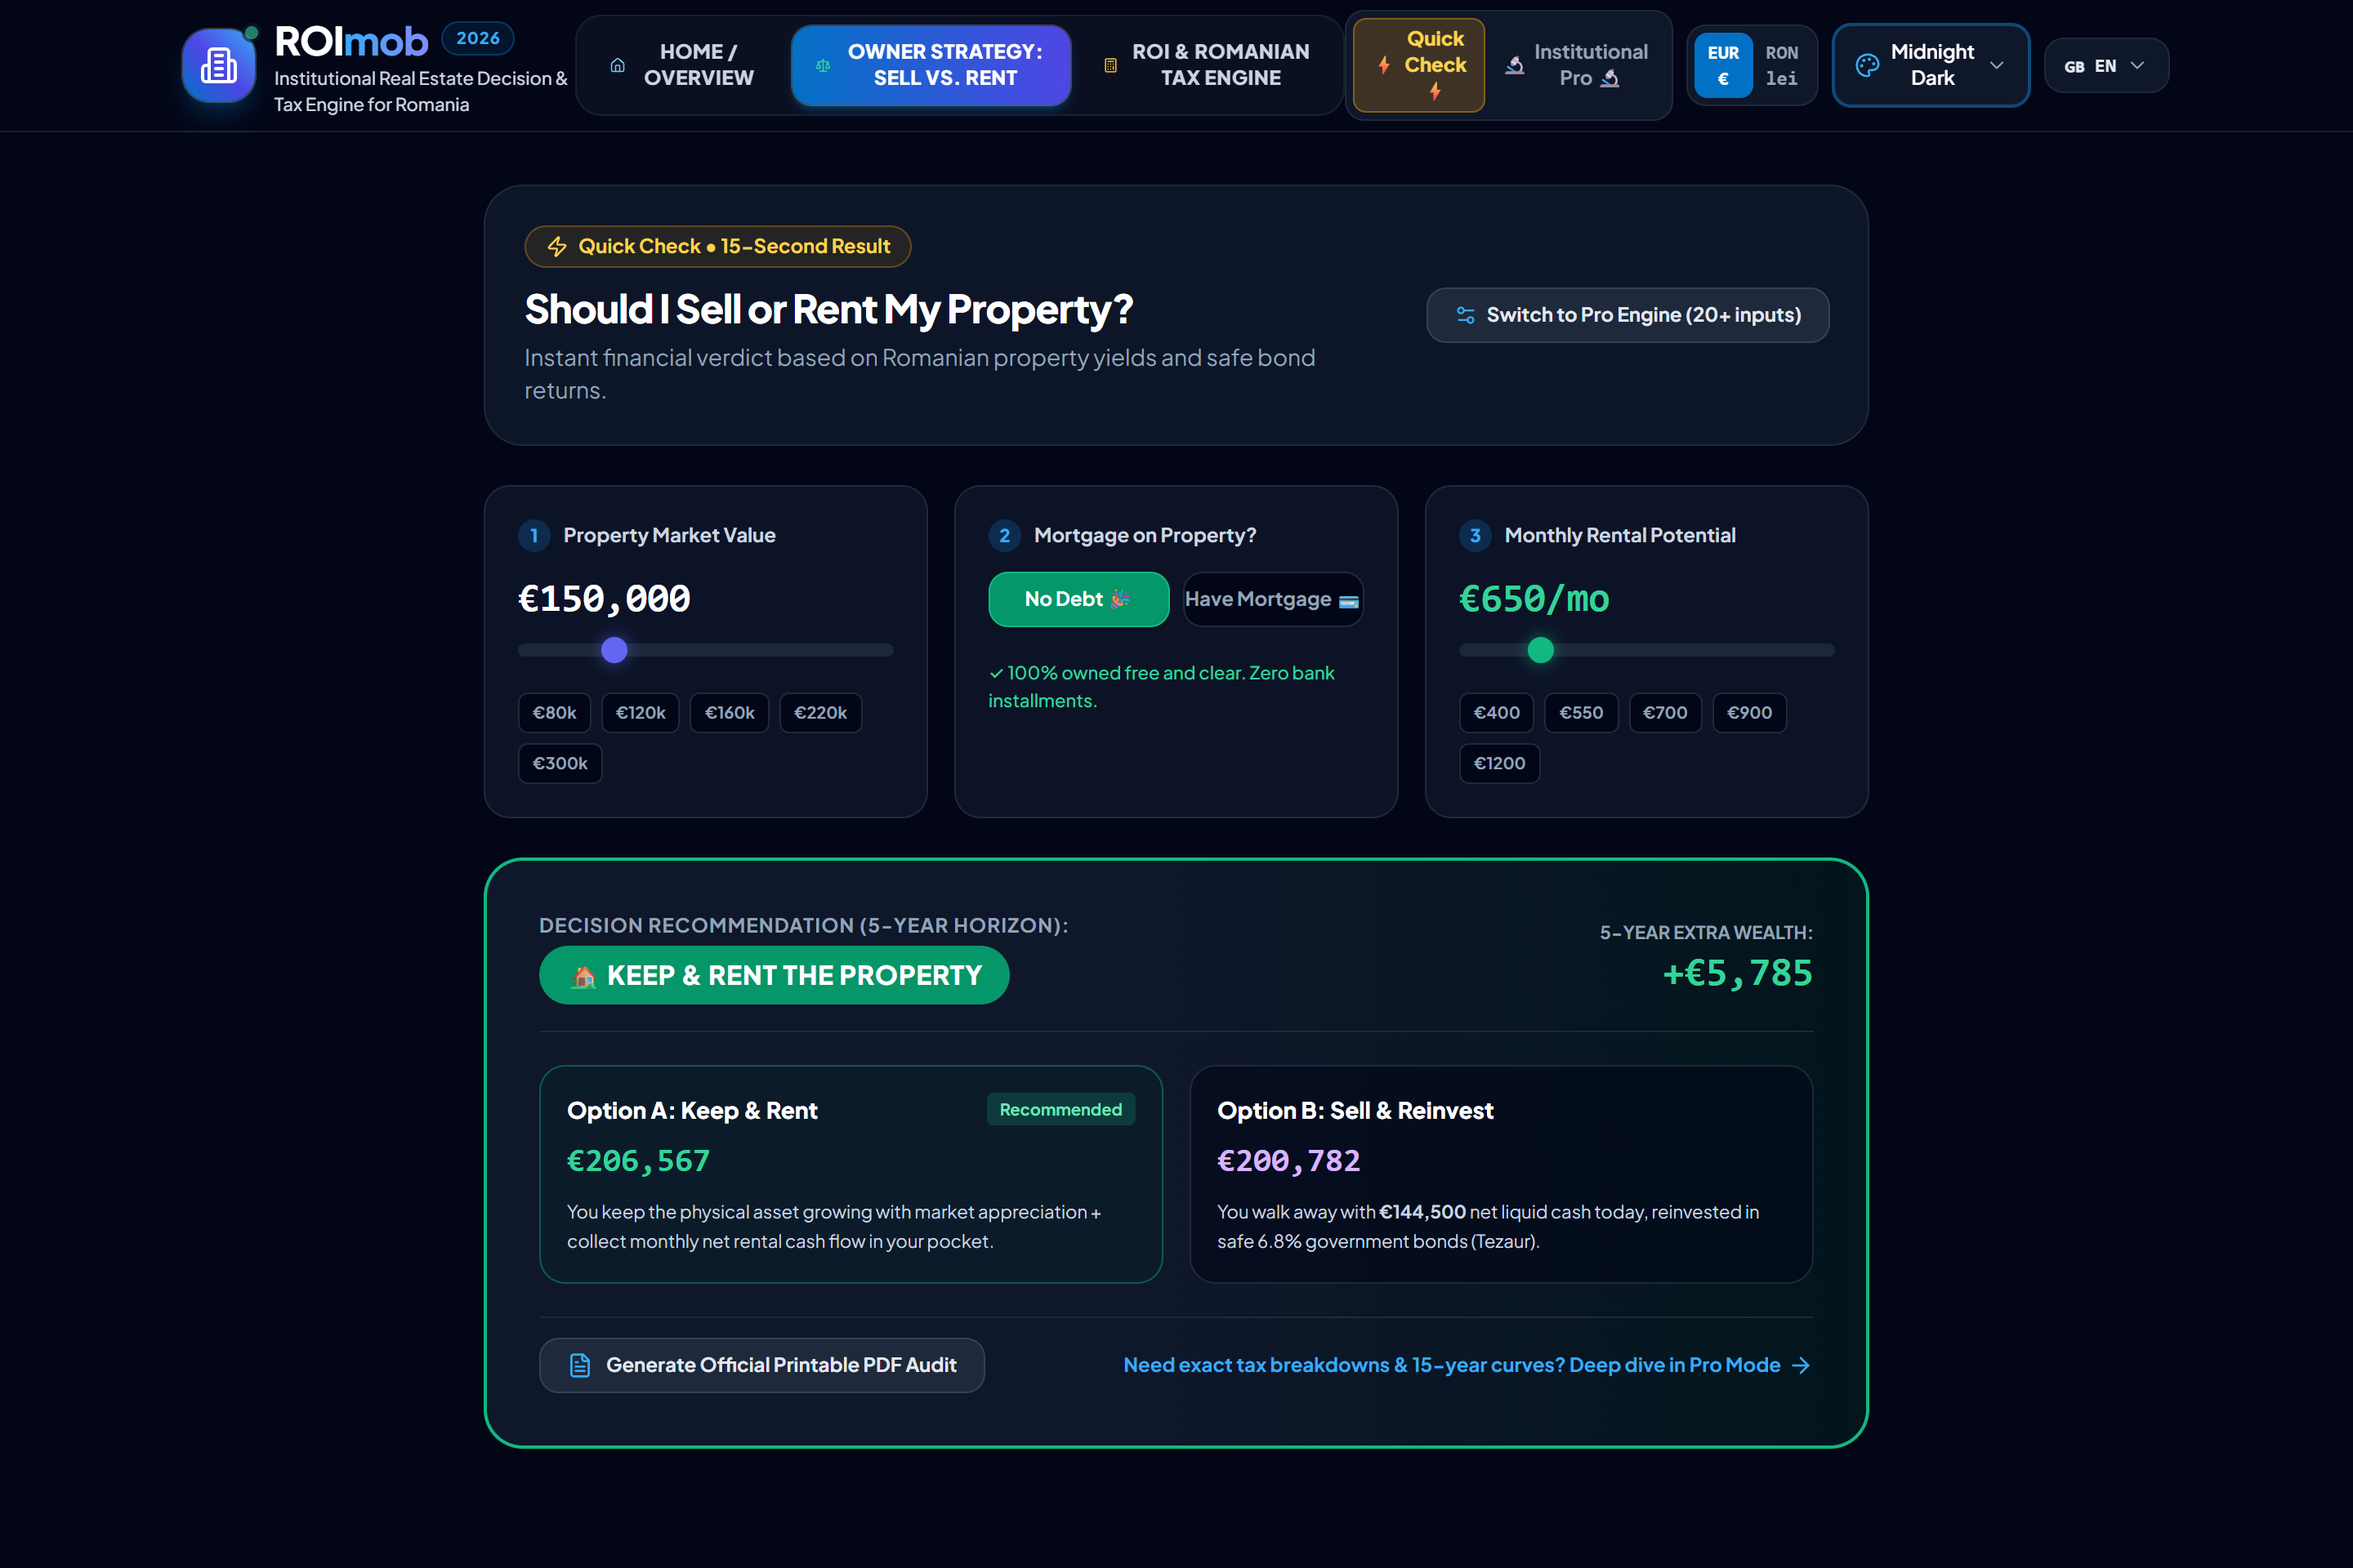
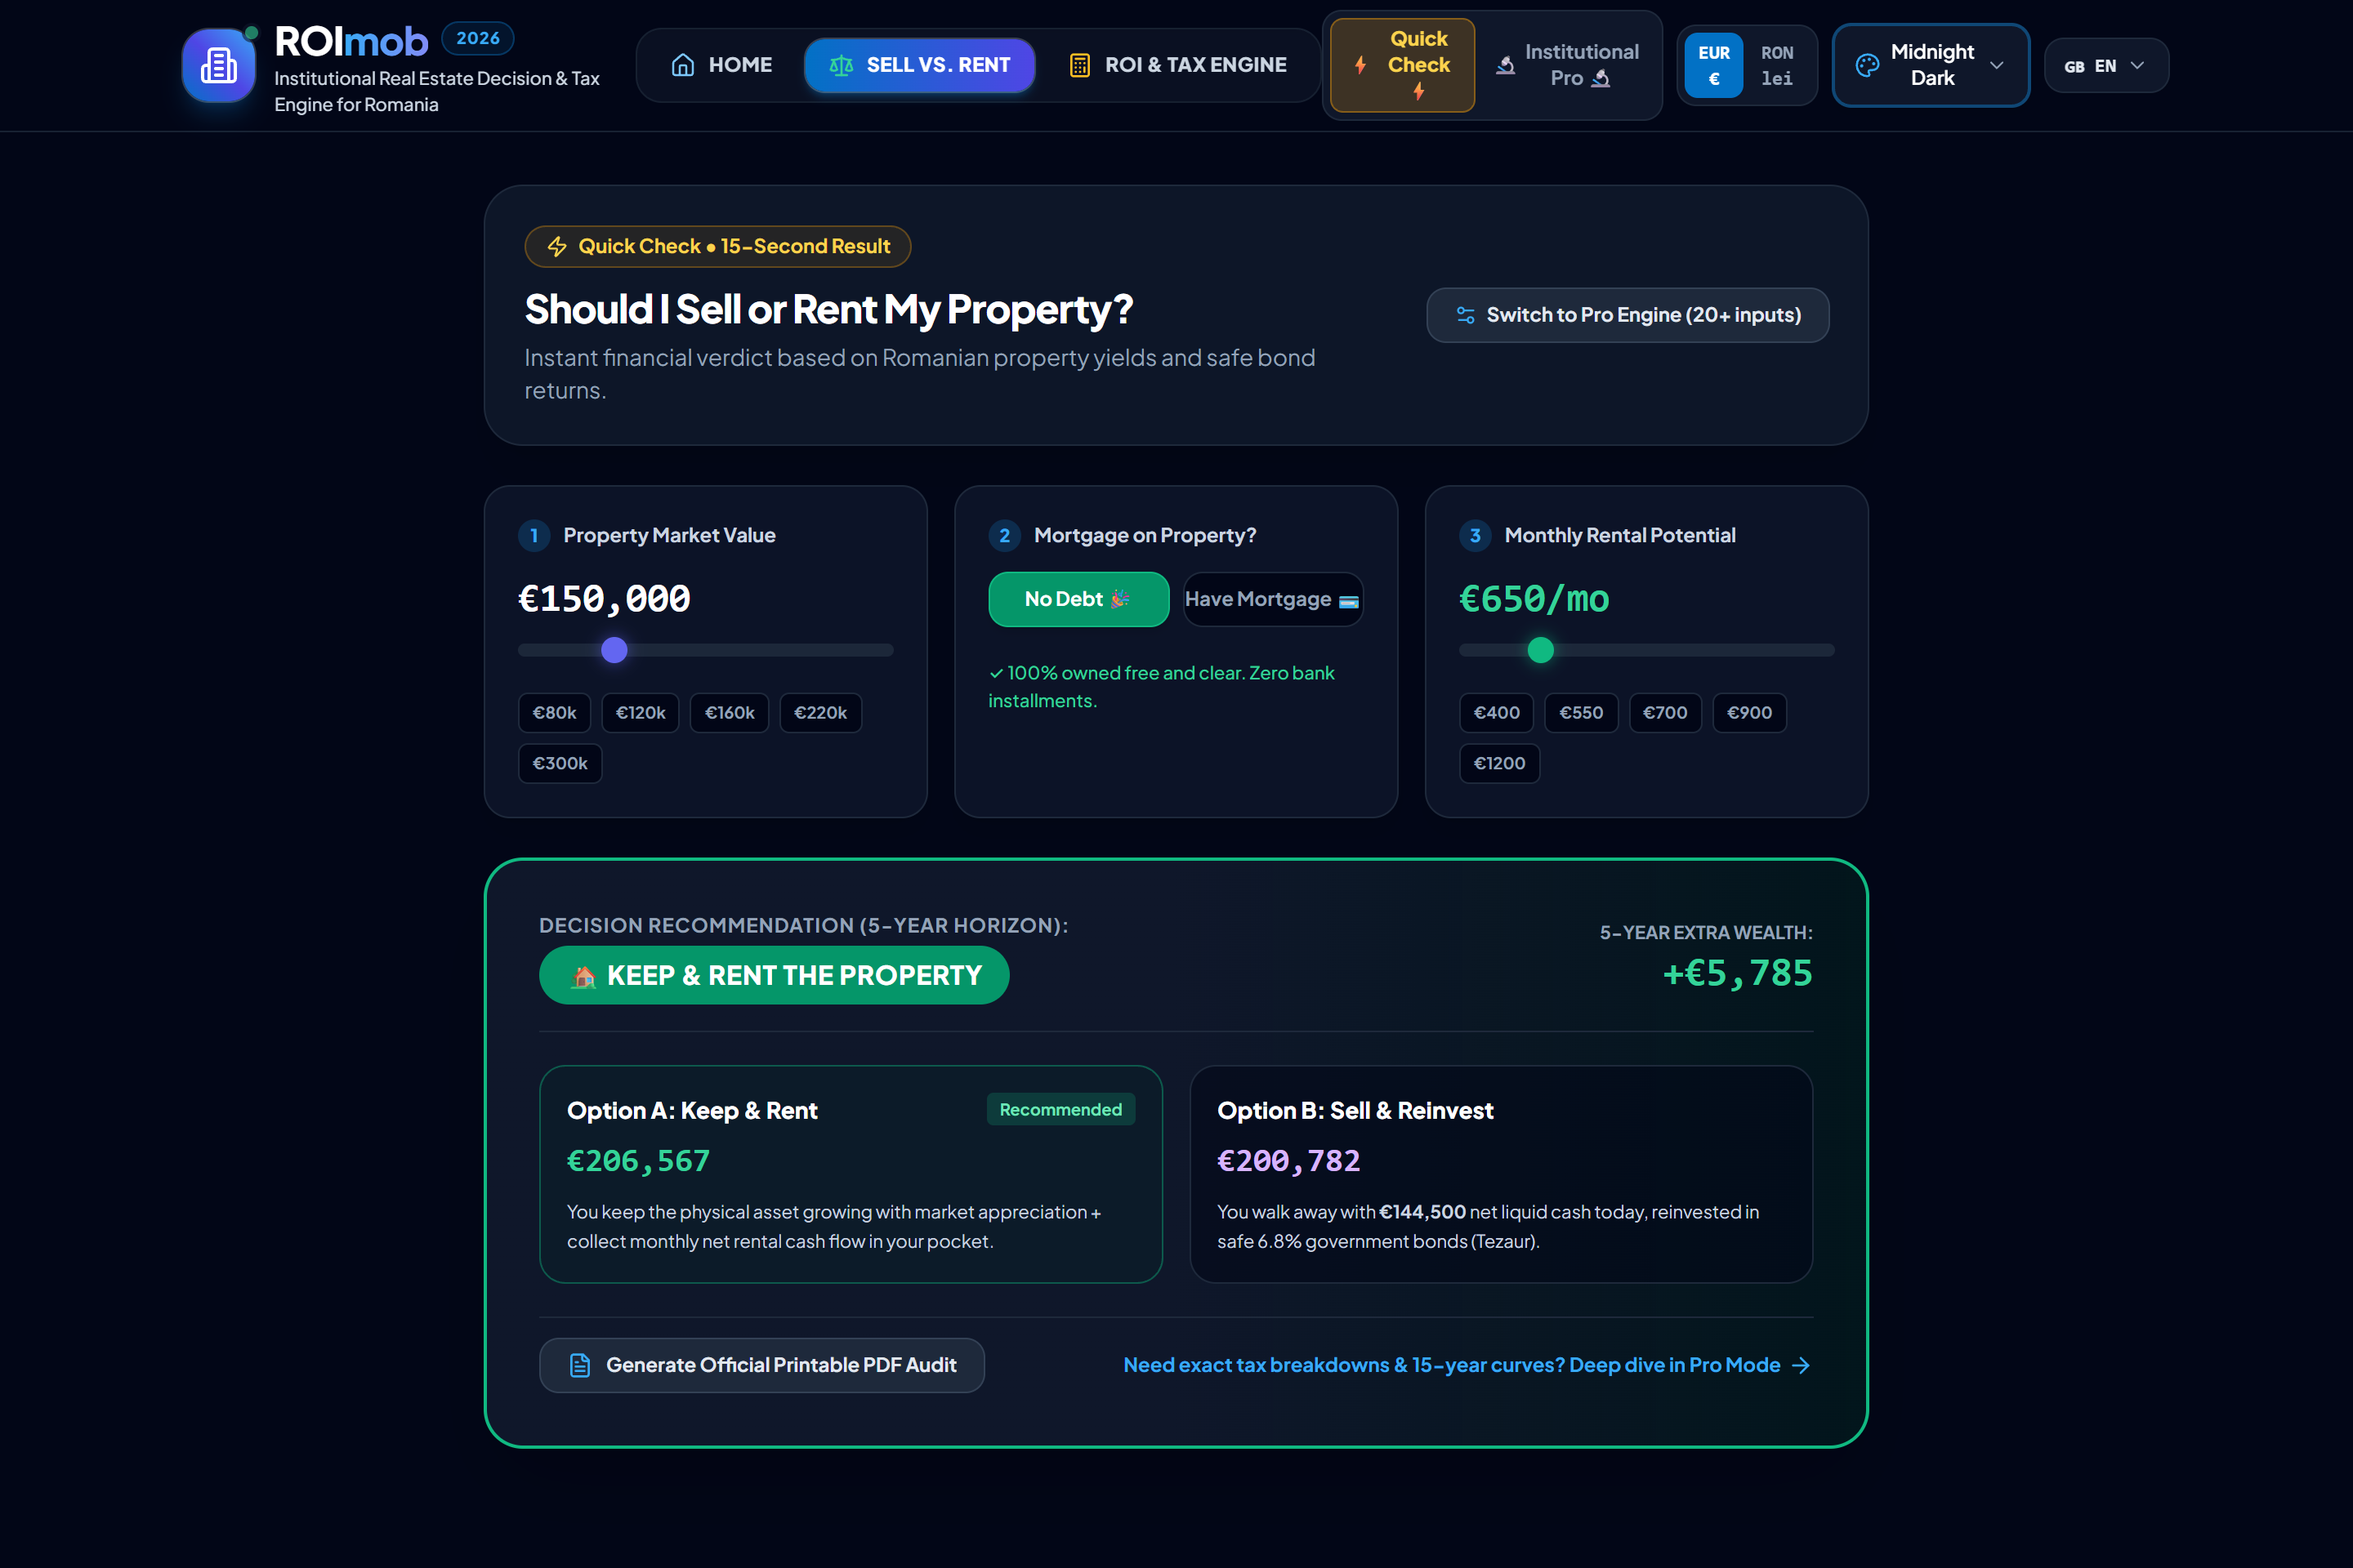
style: Optimize Navbar responsiveness and localization across all languages, ensure full-screen responsive fluid scaling, and remove duplicate issue link in footer

Changed region(s): [[0.2812, 0.0, 0.7812, 0.0938], [0.125, 0.0625, 0.1875, 0.0938]]

diff --git a/src/components/Navbar.tsx b/src/components/Navbar.tsx
@@ -105,13 +105,13 @@ export const Navbar: React.FC<Props> = ({
               <button
                 type="button"
                 onClick={() => handleNavClick('home')}
-                className={`flex items-center gap-2 px-3.5 py-2 rounded-xl text-xs font-black tracking-wide uppercase transition-all duration-200 cursor-pointer ${
+                className={`flex items-center gap-1.5 sm:gap-2 px-3 sm:px-3.5 py-2 rounded-xl text-xs font-black tracking-wide uppercase transition-all duration-200 cursor-pointer whitespace-nowrap shrink-0 ${
                   activeTab === 'home'
                     ? 'bg-gradient-to-r from-brand-600 to-indigo-600 text-white shadow-md shadow-brand-500/30 ring-1 ring-white/20'
                     : 'text-slate-300 hover:text-white hover:bg-slate-800/60'
                 }`}
               >
-                <Home className="w-4 h-4 text-brand-300" />
+                <Home className="w-4 h-4 text-brand-300 shrink-0" />
                 <span>{t.nav.home}</span>
               </button>
 
@@ -119,13 +119,13 @@ export const Navbar: React.FC<Props> = ({
               <button
                 type="button"
                 onClick={() => handleNavClick('sellVsRent')}
-                className={`flex items-center gap-2 px-3.5 py-2 rounded-xl text-xs font-black tracking-wide uppercase transition-all duration-200 cursor-pointer ${
+                className={`flex items-center gap-1.5 sm:gap-2 px-3 sm:px-3.5 py-2 rounded-xl text-xs font-black tracking-wide uppercase transition-all duration-200 cursor-pointer whitespace-nowrap shrink-0 ${
                   activeTab === 'sellVsRent'
                     ? 'bg-gradient-to-r from-brand-600 to-indigo-600 text-white shadow-md shadow-brand-500/30 ring-1 ring-white/20'
                     : 'text-slate-300 hover:text-white hover:bg-slate-800/60'
                 }`}
               >
-                <Scale className="w-4 h-4 text-emerald-400" />
+                <Scale className="w-4 h-4 text-emerald-400 shrink-0" />
                 <span>{t.nav.sellVsRent}</span>
               </button>
 
@@ -133,13 +133,13 @@ export const Navbar: React.FC<Props> = ({
               <button
                 type="button"
                 onClick={() => handleNavClick('calculator')}
-                className={`flex items-center gap-2 px-3.5 py-2 rounded-xl text-xs font-black tracking-wide uppercase transition-all duration-200 cursor-pointer ${
+                className={`flex items-center gap-1.5 sm:gap-2 px-3 sm:px-3.5 py-2 rounded-xl text-xs font-black tracking-wide uppercase transition-all duration-200 cursor-pointer whitespace-nowrap shrink-0 ${
                   activeTab === 'calculator'
                     ? 'bg-gradient-to-r from-brand-600 to-indigo-600 text-white shadow-md shadow-brand-500/30 ring-1 ring-white/20'
                     : 'text-slate-300 hover:text-white hover:bg-slate-800/60'
                 }`}
               >
-                <Calculator className="w-4 h-4 text-amber-400" />
+                <Calculator className="w-4 h-4 text-amber-400 shrink-0" />
                 <span>{t.nav.calculator}</span>
               </button>
             </nav>
@@ -522,53 +522,53 @@ export const Navbar: React.FC<Props> = ({
         <button
           type="button"
           onClick={() => handleNavClick('home')}
-          className={`flex flex-col items-center gap-1 px-3 py-1.5 rounded-xl text-[10px] font-bold transition-all ${
+          className={`flex-1 flex flex-col items-center gap-1 py-1.5 rounded-xl text-[10.5px] font-bold transition-all ${
             activeTab === 'home'
-              ? 'text-brand-400 font-black'
+              ? 'text-brand-400 font-black scale-105'
               : 'text-slate-400 hover:text-slate-200'
           }`}
         >
           <Home className="w-4 h-4" />
-          <span>Home</span>
+          <span className="truncate max-w-[72px]">{t.nav.home}</span>
         </button>
 
         <button
           type="button"
           onClick={() => handleNavClick('sellVsRent')}
-          className={`flex flex-col items-center gap-1 px-3 py-1.5 rounded-xl text-[10px] font-bold transition-all ${
+          className={`flex-1 flex flex-col items-center gap-1 py-1.5 rounded-xl text-[10.5px] font-bold transition-all ${
             activeTab === 'sellVsRent'
-              ? 'text-emerald-400 font-black'
+              ? 'text-emerald-400 font-black scale-105'
               : 'text-slate-400 hover:text-slate-200'
           }`}
         >
           <Scale className="w-4 h-4" />
-          <span>Sell vs Rent</span>
+          <span className="truncate max-w-[85px]">{t.nav.sellVsRent}</span>
         </button>
 
         <button
           type="button"
           onClick={() => handleNavClick('calculator')}
-          className={`flex flex-col items-center gap-1 px-3 py-1.5 rounded-xl text-[10px] font-bold transition-all ${
+          className={`flex-1 flex flex-col items-center gap-1 py-1.5 rounded-xl text-[10.5px] font-bold transition-all ${
             activeTab === 'calculator'
-              ? 'text-amber-400 font-black'
+              ? 'text-amber-400 font-black scale-105'
               : 'text-slate-400 hover:text-slate-200'
           }`}
         >
           <Calculator className="w-4 h-4" />
-          <span>ROI & Tax</span>
+          <span className="truncate max-w-[85px]">{t.nav.calculator}</span>
         </button>
 
         <button
           type="button"
           onClick={() => setMobileMenuOpen(!mobileMenuOpen)}
-          className={`flex flex-col items-center gap-1 px-3 py-1.5 rounded-xl text-[10px] font-bold transition-all ${
+          className={`flex-1 flex flex-col items-center gap-1 py-1.5 rounded-xl text-[10.5px] font-bold transition-all ${
             mobileMenuOpen
-              ? 'text-brand-400 font-black'
+              ? 'text-brand-400 font-black scale-105'
               : 'text-slate-400 hover:text-slate-200'
           }`}
         >
           <Palette className="w-4 h-4" />
-          <span>Settings</span>
+          <span className="truncate max-w-[72px]">{t.theme.label}</span>
         </button>
       </div>
     </>

diff --git a/src/components/Footer.tsx b/src/components/Footer.tsx
@@ -57,17 +57,9 @@ export const Footer: React.FC = () => {
           </p>
         </div>
 
-        {/* AI Disclaimer Footnote & Direct GitHub Reporting */}
-        <div className="text-[10px] text-center pt-4 border-t border-slate-800/40 flex flex-col sm:flex-row items-center justify-center gap-2">
+        {/* AI Disclaimer Footnote */}
+        <div className="text-[10px] text-center pt-4 border-t border-slate-800/40 text-slate-500">
           <span>{t.footer.aiDisclaimer}</span>
-          <a
-            href={ISSUES_URL}
-            target="_blank"
-            rel="noopener noreferrer"
-            className="text-brand-400 hover:underline font-bold inline-flex items-center gap-1"
-          >
-            <span>{t.footer.reportIssueBtn} →</span>
-          </a>
         </div>
 
       </div>

diff --git a/src/i18n/uk.ts b/src/i18n/uk.ts
@@ -4,9 +4,9 @@ export const uk: TranslationDictionary = {
   appName: 'ROImob',
   appTagline: 'Інституційний Калькулятор Інвестицій та Податків на Нерухомість у Румунії',
   nav: {
-    home: 'Головна / Огляд',
-    sellVsRent: 'Стратегія Власника: Продати чи Здавати',
-    calculator: 'Калькулятор ROI та Податків у Румунії',
+    home: 'Головна',
+    sellVsRent: 'Продаж чи Оренда',
+    calculator: 'ROI & Податки',
   },
   theme: {
     label: 'Тема',

diff --git a/src/i18n/de.ts b/src/i18n/de.ts
@@ -4,9 +4,9 @@ export const de: TranslationDictionary = {
   appName: 'ROImob',
   appTagline: 'Institutioneller Immobilien-Entscheidungs- und Steuerrechner für Rumänien',
   nav: {
-    home: 'Startseite / Übersicht',
-    sellVsRent: 'Eigentümer-Strategie: Verkaufen vs. Vermieten',
-    calculator: 'ROI- & Steuerrechner Rumänien',
+    home: 'Startseite',
+    sellVsRent: 'Verkaufen vs. Vermieten',
+    calculator: 'ROI & Steuer-Rechner',
   },
   theme: {
     label: 'Design',

diff --git a/src/i18n/ro.ts b/src/i18n/ro.ts
@@ -4,9 +4,9 @@ export const ro: TranslationDictionary = {
   appName: 'ROImob',
   appTagline: 'Motor de Decizie Financiară și Fiscalitate Imobiliară pentru România',
   nav: {
-    home: 'Acasă / Prezentare',
-    sellVsRent: 'Strategie Proprietar: Vinde vs. Închiriază',
-    calculator: 'Calculator ROI & Fiscalitate România',
+    home: 'Acasă',
+    sellVsRent: 'Vinde vs. Închiriază',
+    calculator: 'Calculator ROI & Fiscalitate',
   },
   theme: {
     label: 'Temă',

diff --git a/src/i18n/pt.ts b/src/i18n/pt.ts
@@ -4,9 +4,9 @@ export const pt: TranslationDictionary = {
   appName: 'ROImob',
   appTagline: 'Motor de Decisão Financeira e Fiscalidade Imobiliária para a Roménia',
   nav: {
-    home: 'Início / Visão Geral',
-    sellVsRent: 'Estratégia do Proprietário: Vender vs. Arrendar',
-    calculator: 'Simulador ROI & Fiscalidade Roménia',
+    home: 'Início',
+    sellVsRent: 'Vender vs. Arrendar',
+    calculator: 'Motor ROI & Fiscal',
   },
   theme: {
     label: 'Tema',

diff --git a/src/i18n/fr.ts b/src/i18n/fr.ts
@@ -4,9 +4,9 @@ export const fr: TranslationDictionary = {
   appName: 'ROImob',
   appTagline: 'Moteur de Décision Financière et Fiscale Immobilière pour la Roumanie',
   nav: {
-    home: 'Accueil / Aperçu',
-    sellVsRent: 'Stratégie Propriétaire: Vendre vs Louer',
-    calculator: 'Simulateur ROI & Fiscalité Roumanie',
+    home: 'Accueil',
+    sellVsRent: 'Vendre vs Louer',
+    calculator: 'Moteur ROI & Fiscalité',
   },
   theme: {
     label: 'Thème',

diff --git a/src/i18n/en.ts b/src/i18n/en.ts
@@ -4,9 +4,9 @@ export const en: TranslationDictionary = {
   appName: 'ROImob',
   appTagline: 'Institutional Real Estate Decision & Tax Engine for Romania',
   nav: {
-    home: 'Home / Overview',
-    sellVsRent: 'Owner Strategy: Sell vs. Rent',
-    calculator: 'ROI & Romanian Tax Engine',
+    home: 'Home',
+    sellVsRent: 'Sell vs. Rent',
+    calculator: 'ROI & Tax Engine',
   },
   theme: {
     label: 'Theme',
